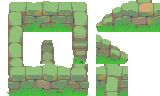
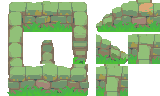
handle a particular wall arrangement

Changed region(s): [[0.7812, 0.3438, 1.0, 0.6875]]

diff --git a/src/render/drawframe.ts b/src/render/drawframe.ts
@@ -40,6 +40,9 @@ function identify9GridForWall(level: LevelContent, col: number, row: number): re
     if (isWallLike(col - 1, row) && isWallLike(col + 1, row) && isWallLike(col, row - 1) && !isWallLike(col, row + 1)) {
         return [4, 0];
     }
+    if (isWallLike(col - 1, row) && isWallLike(col + 1, row) && isWallLike(col, row + 1) && !isWallLike(col, row - 1)) {
+        return [4, 1];
+    }
     if (isWallLike(col, row + 1) && isWallLike(col + 1, row)) {
         return [0, 0];
     }
